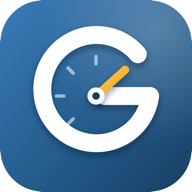
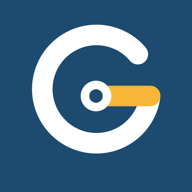
Garaje 1.0.25 disponible

diff --git a/novedades.html b/novedades.html
@@ -28,6 +28,14 @@
 <span class="eyebrow">Novedades</span>
 <h1>Qué hay de nuevo</h1>
 <p class="lead">Cada versión se publica en <a href="https://github.com/samuelgonzrojas/garaje/releases">GitHub</a> y la app avisa sola cuando hay una nueva.</p>
+<article class="card release"><h2 id="v1-0-25">1.0.25 <small>7 de octubre de 2026</small></h2>
+<ul>
+<li>Icono nuevo y arranque animado: la aguja da la vuelta al cuadro y Garaje se escribe a mano.</li>
+<li>Pide presupuesto y cita a un taller de Garaje desde la app.</li>
+<li>Las revisiones solo avisan cuando tocan.</li>
+<li>Lee mejor el permiso de circulación.</li>
+</ul>
+</article>
 <article class="card release"><h2 id="v1-0-24">1.0.24 <small>7 de octubre de 2026</small></h2>
 <ul>
 <li>Pide presupuesto y cita a un taller de Garaje desde la app con lo que le toca a tu vehículo.</li>
